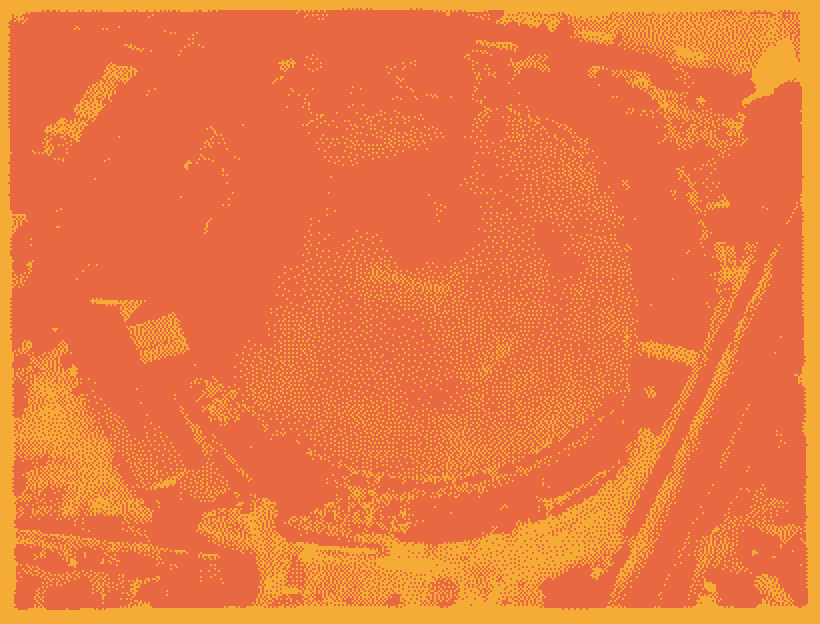
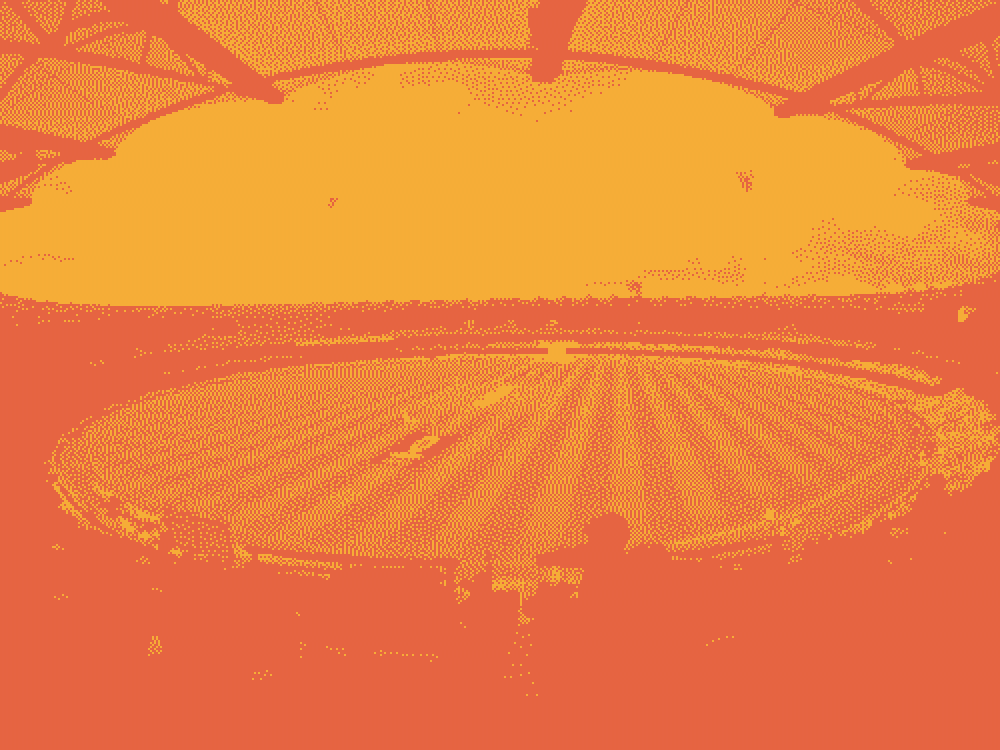
toombul: Toombul legends, better Gabba/Symonds, GSAP collage animation
Images: remove bails + the historic team photo; replace the muddy Gabba
aerial with a clean panorama and re-dither Symonds from a brighter,
face-lit source. Add six Toombul/QLD legends from the club's Wikipedia —
Wally Grout, Ron Oxenham, Percy Hornibrook, Ryan Harris, Chris Lynn,
Matthew Renshaw. 32 items, layout regenerated via the phyllotaxis.

Animation (GSAP): each item gets two layers — inner (entrance stagger
radiating from the crest + cursor parallax with depth from item size) and
float (gentle idle drift). Reduced-motion + editor skip it; a failsafe
reveals everything if the animation can't run. Crest pops in first.

diff --git a/components/toombul/Collage.tsx b/components/toombul/Collage.tsx
@@ -1,6 +1,7 @@
 "use client";
 
 import { useCallback, useEffect, useRef, useState } from "react";
+import gsap from "gsap";
 import { collageMeta, type CollagePos } from "@/content/toombulCollage";
 
 // The paraphernalia collage. Renders items from a positions array (x/y are %
@@ -82,6 +83,86 @@ export default function Collage({ layout }: { layout: CollagePos[] }) {
     return () => window.removeEventListener("keydown", onKey);
   }, [edit, sel, items, update, remove]);
 
+  // GSAP: entrance stagger + idle float + cursor parallax. Skipped while
+  // editing and for reduced-motion. inner layer = entrance/parallax,
+  // float layer = idle drift (kept off the wrap's base rotate).
+  useEffect(() => {
+    if (edit) return;
+    const section = sectionRef.current;
+    if (!section) return;
+    if (window.matchMedia("(prefers-reduced-motion: reduce)").matches) return;
+
+    let cleanup = () => {};
+    const ctx = gsap.context(() => {
+      const inners = gsap.utils.toArray<HTMLElement>(section.querySelectorAll(".tc-para-inner"));
+      const floats = gsap.utils.toArray<HTMLElement>(section.querySelectorAll(".tc-para-float"));
+      const crest = section.querySelector<HTMLElement>(".tc-collage-crest");
+      if (!inners.length) return;
+
+      // entrance — items assemble outward from the crest
+      const sr = section.getBoundingClientRect();
+      const cx = sr.width / 2, cy = sr.height / 2;
+      const ordered = inners
+        .map((el) => {
+          const r = el.getBoundingClientRect();
+          const ex = r.left - sr.left + r.width / 2;
+          const ey = r.top - sr.top + r.height / 2;
+          return { el, dist: Math.hypot(ex - cx, ey - cy) };
+        })
+        .sort((a, b) => a.dist - b.dist);
+
+      gsap.set(inners, { opacity: 0, scale: 0.7 });
+      if (crest) gsap.set(crest, { opacity: 0, scale: 0.5 });
+      const tl = gsap.timeline();
+      if (crest) tl.to(crest, { opacity: 1, scale: 1, duration: 0.7, ease: "back.out(1.7)" }, 0.05);
+      ordered.forEach((o, i) => {
+        tl.to(o.el, { opacity: 1, scale: 1, duration: 0.6, ease: "power3.out" }, 0.15 + i * 0.03);
+      });
+
+      // idle float — gentle independent drift
+      floats.forEach((el) => {
+        gsap.to(el, {
+          y: gsap.utils.random(-8, 8),
+          rotation: gsap.utils.random(-2.2, 2.2),
+          duration: gsap.utils.random(3.5, 6.5),
+          ease: "sine.inOut",
+          yoyo: true,
+          repeat: -1,
+          delay: gsap.utils.random(0, 2.5),
+        });
+      });
+
+      // cursor parallax — depth scaled by item width (bigger = nearer)
+      const xs = inners.map((el) => gsap.quickTo(el, "x", { duration: 0.7, ease: "power2" }));
+      const ys = inners.map((el) => gsap.quickTo(el, "y", { duration: 0.7, ease: "power2" }));
+      const depth = inners.map((el) => parseFloat(el.dataset.w || "10") * 0.9);
+      const onMove = (e: PointerEvent) => {
+        const r = section.getBoundingClientRect();
+        const nx = (e.clientX - r.left) / r.width - 0.5;
+        const ny = (e.clientY - r.top) / r.height - 0.5;
+        inners.forEach((_, i) => { xs[i](-nx * depth[i]); ys[i](-ny * depth[i]); });
+      };
+      section.addEventListener("pointermove", onMove);
+      cleanup = () => section.removeEventListener("pointermove", onMove);
+    }, section);
+
+    return () => { cleanup(); ctx.revert(); };
+  }, [edit, items.length]);
+
+  // Failsafe: if the entrance animation can't run for any reason, never leave
+  // the pre-hidden collage blank — force everything visible after a moment.
+  useEffect(() => {
+    if (edit) return;
+    const t = setTimeout(() => {
+      sectionRef.current
+        ?.querySelectorAll<HTMLElement>(".tc-para-inner, .tc-collage-crest")
+        .forEach((el) => {
+          if (getComputedStyle(el).opacity === "0") gsap.set(el, { opacity: 1, scale: 1 });
+        });
+    }, 2600);
+    return () => clearTimeout(t);
+  }, [edit]);
+
   const startMove = (e: React.PointerEvent, it: CollagePos) => {
     if (!edit) return;
     e.preventDefault();
@@ -134,17 +215,23 @@ export default function Collage({ layout }: { layout: CollagePos[] }) {
               top: `${it.y}%`,
               width: `${it.w}vw`,
               transform: it.rot ? `rotate(${it.rot}deg)` : undefined,
-              zIndex: isSel ? 20 : meta.z ?? 1,
+              zIndex: isSel ? 20 : 1,
             }}
             onPointerDown={(e) => startMove(e, it)}
           >
-            <img
-              src={meta.src}
-              alt={meta.alt}
-              className={`tc-para${meta.raw ? " tc-para--raw" : ""}`}
-              draggable={false}
-              loading="eager"
-            />
+            {/* two animation layers: inner = entrance + mouse/scroll parallax,
+                float = idle drift; keeps GSAP off the base rotate on the wrap */}
+            <div className="tc-para-inner" data-w={it.w}>
+              <div className="tc-para-float">
+                <img
+                  src={meta.src}
+                  alt={meta.alt}
+                  className="tc-para"
+                  draggable={false}
+                  loading="eager"
+                />
+              </div>
+            </div>
             {isSel && (
               <>
                 <span

diff --git a/content/toombulCollage.ts b/content/toombulCollage.ts
@@ -12,7 +12,6 @@ export const collageMeta: Record<string, CollageMeta> = {
   ashesurn: { src: d("ashesurn"), alt: "The Ashes urn on its mount" },
   bat: { src: d("bat"), alt: "Cricket bat" },
   gloves: { src: d("gloves"), alt: "Wicket keeping gloves" },
-  bails: { src: d("bails"), alt: "Cricket bails" },
   stumps: { src: d("stumps"), alt: "Toombul stumps" },
   card: { src: d("card"), alt: "Vintage cricket cigarette card" },
   shield: { src: d("shield"), alt: "The Sheffield Shield, 1894 engraving" },
@@ -20,7 +19,6 @@ export const collageMeta: Record<string, CollageMeta> = {
   blazer: { src: d("blazer"), alt: "A 1937 striped cricket club blazer" },
   sweater: { src: d("sweater"), alt: "A cable-knit cricket jumper" },
   // public/toombul/touse — club photography (Toombul / Queensland)
-  team: { src: d("team"), alt: "A historic Toombul cricket team photograph" },
   bowler: { src: d("bowler"), alt: "A Toombul bowler in the delivery stride" },
   bradman: { src: d("bradman"), alt: "Toombul and Australia players walking off, from the club's history" },
   batsman: { src: d("batsman"), alt: "A Toombul batsman playing a shot" },
@@ -29,13 +27,19 @@ export const collageMeta: Record<string, CollageMeta> = {
   tallon: { src: d("tallon"), alt: "Don Tallon, Toombul and Australia wicket-keeper" },
   billbrown: { src: d("billbrown"), alt: "Bill Brown, Toombul and Australia" },
   mccool: { src: d("mccool"), alt: "Colin McCool, Toombul and Australia" },
+  grout: { src: d("grout"), alt: "Wally Grout, Toombul and Australia wicket-keeper" },
+  oxenham: { src: d("oxenham"), alt: "Ron Oxenham, Toombul and Queensland" },
+  hornibrook: { src: d("hornibrook"), alt: "Percy Hornibrook, Queensland and Australia" },
   mcdermott: { src: d("mcdermott"), alt: "Craig McDermott, Queensland and Australia" },
   healy: { src: d("healy"), alt: "Ian Healy, Queensland and Australia" },
+  harris: { src: d("harris"), alt: "Ryan Harris, Queensland and Australia" },
   symonds: { src: d("symonds"), alt: "Andrew Symonds, Queensland and Australia" },
   khawaja: { src: d("khawaja"), alt: "Usman Khawaja, Queensland and Australia" },
   marnus: { src: d("marnus"), alt: "Marnus Labuschagne, Queensland and Australia" },
+  lynn: { src: d("lynn"), alt: "Chris Lynn, Queensland and Toombul junior" },
+  renshaw: { src: d("renshaw"), alt: "Matthew Renshaw, Toombul junior, Queensland and Australia" },
   carseldine: { src: d("carseldine"), alt: "Lee Carseldine batting for the Queensland Bulls at the Gabba" },
-  gabba: { src: d("gabba"), alt: "The Gabba, Brisbane Cricket Ground, 1936" },
+  gabba: { src: d("gabba"), alt: "The Gabba, Brisbane Cricket Ground" },
 };
 
 export type CollagePos = { key: string; x: number; y: number; w: number; rot: number };

diff --git a/app/toombul/toombul-site.css b/app/toombul/toombul-site.css
@@ -212,6 +212,7 @@
   transform-origin: center;
   line-height: 0;
 }
+.tc-para-inner, .tc-para-float { display: block; width: 100%; will-change: transform; }
 .tc-para {
   display: block;
   width: 100%;
@@ -220,7 +221,12 @@
   user-select: none;
   pointer-events: none;
 }
-.tc-para--raw { image-rendering: auto; }
+/* Start hidden so the GSAP entrance can't flash the static frame first
+   (only when motion is allowed and we're not in the editor). */
+@media (prefers-reduced-motion: no-preference) {
+  .tc-collage:not(.tc-collage--edit) .tc-para-inner,
+  .tc-collage:not(.tc-collage--edit) .tc-collage-crest { opacity: 0; }
+}
 /* Crest: locked, centred, full colour, above the paraphernalia. */
 .tc-collage-crest {
   position: absolute;
